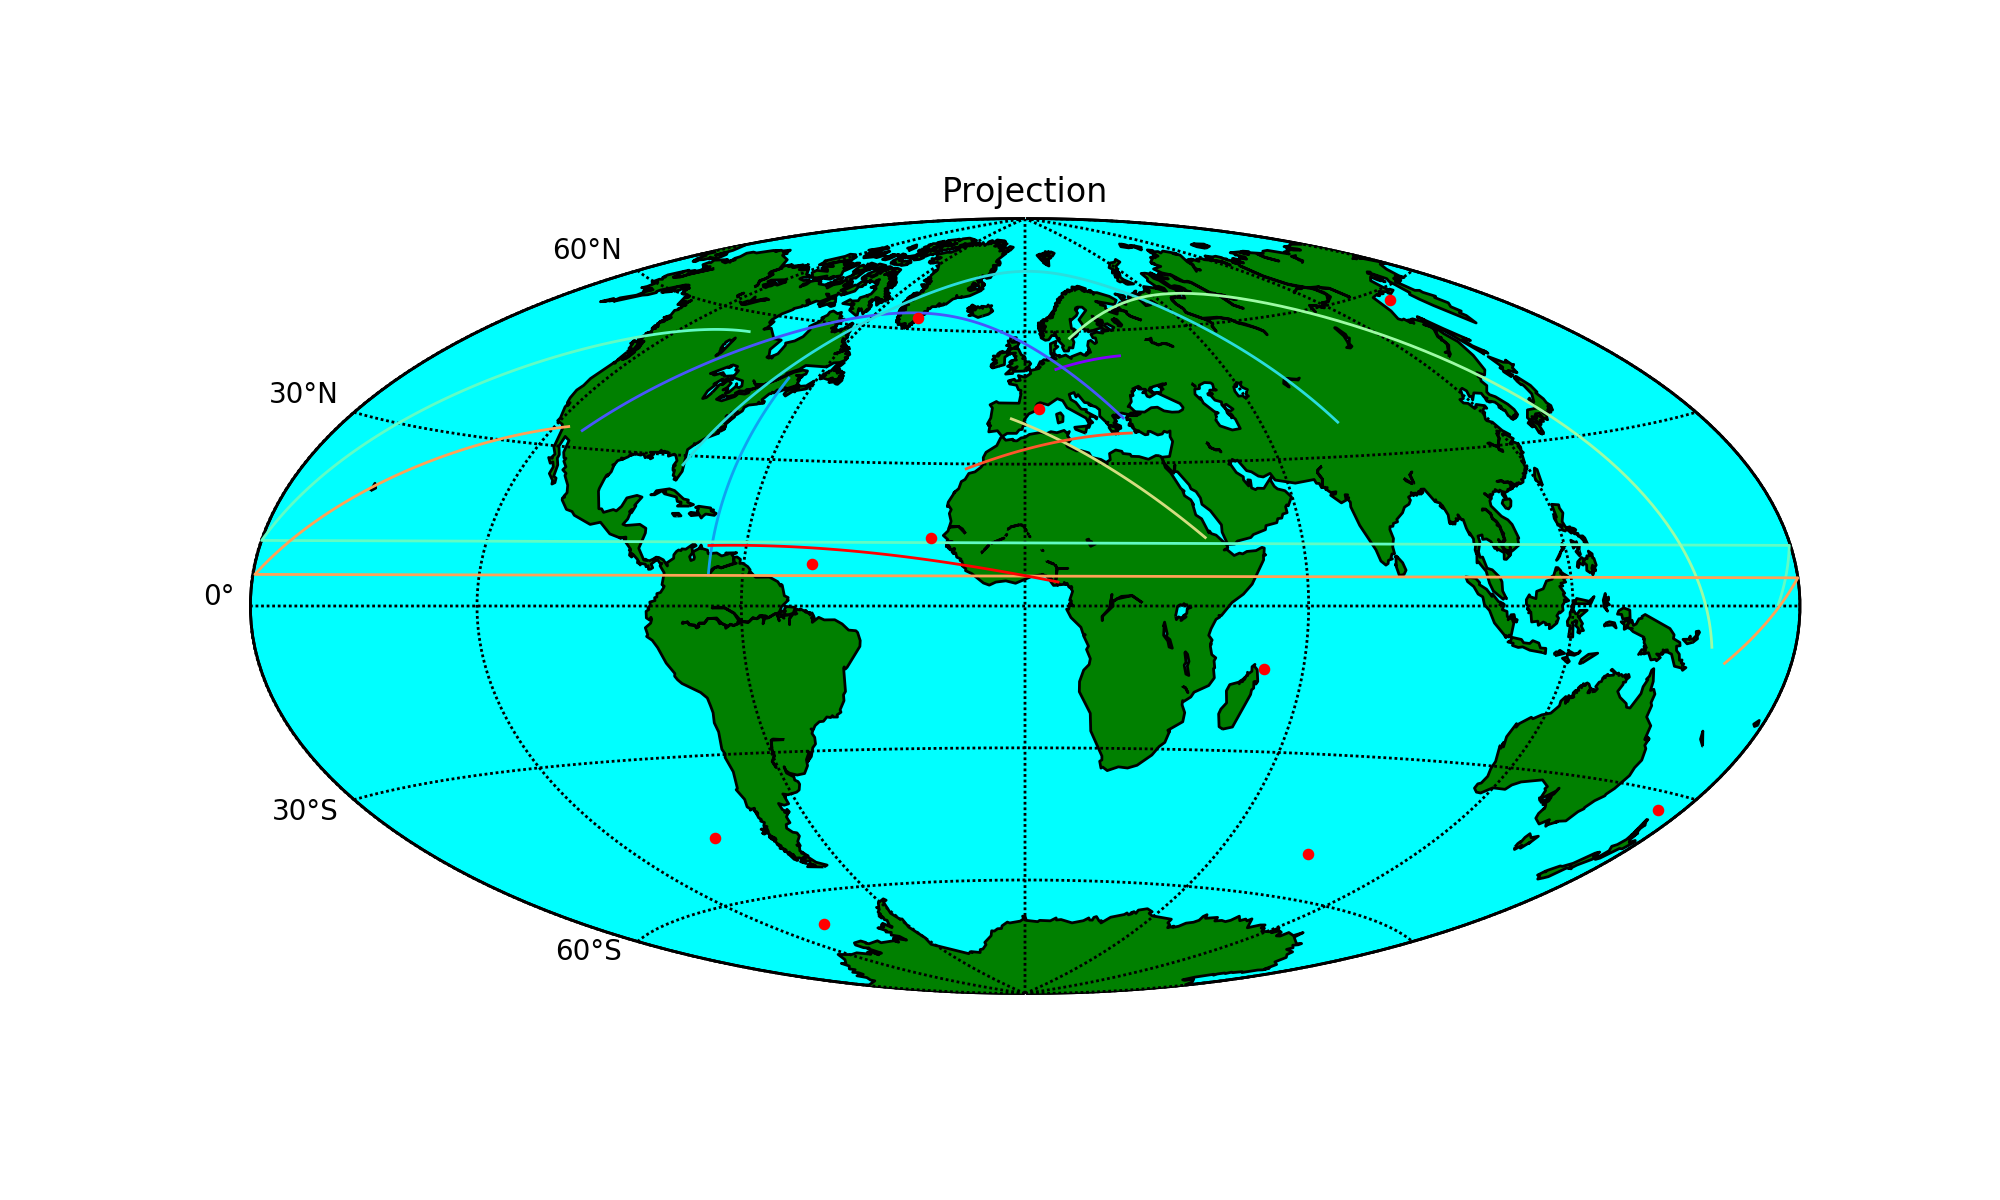
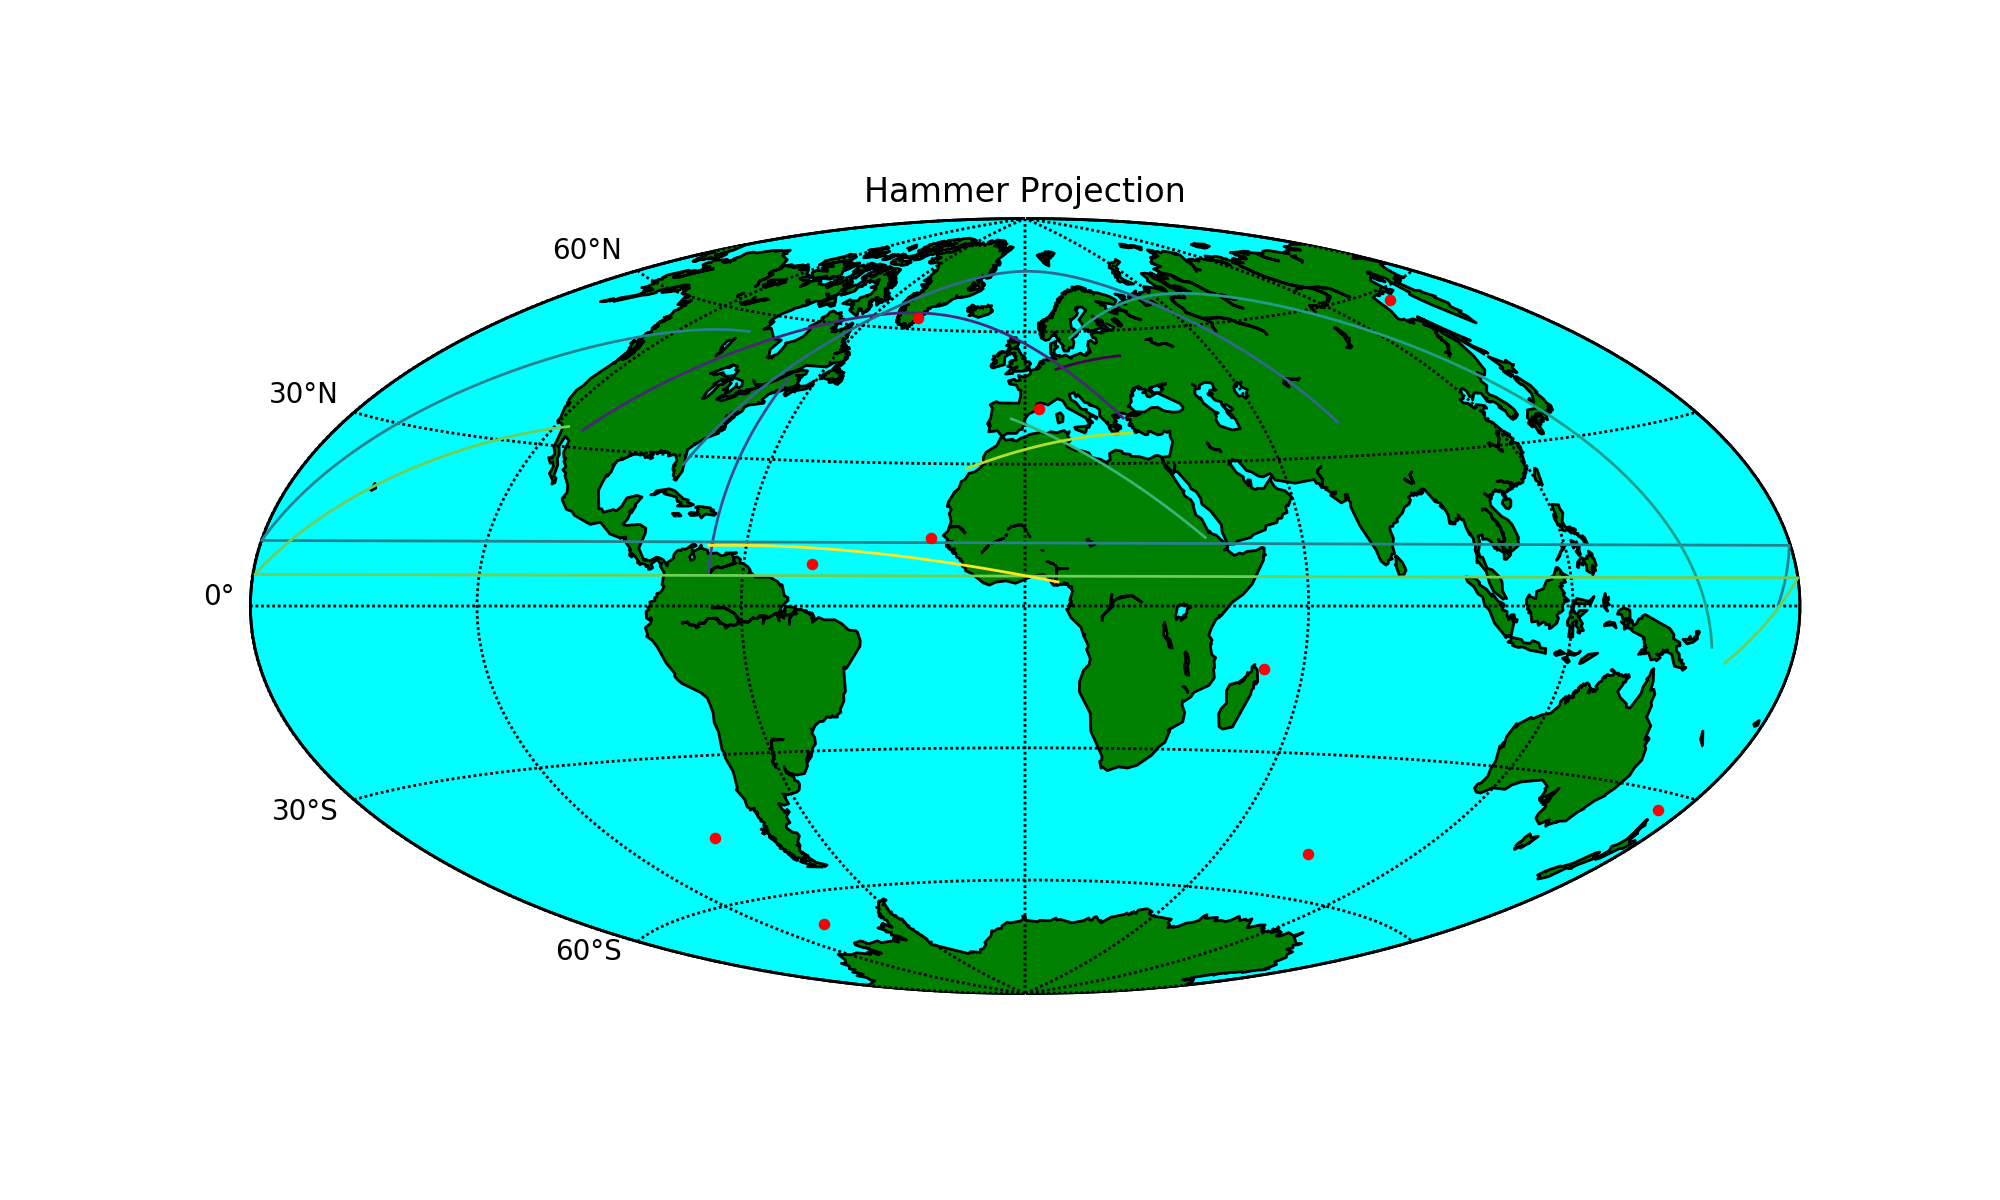
new projection and changed scheme to viridian

diff --git a/plot_data.py b/plot_data.py
@@ -226,15 +226,17 @@ if option_map == 'yes':
 	lons = list(data_df['long'])
 	
 	# resolution = 'c' means use crude resolution coastlines.
+	proj_choice = 'hammer'
+
 	plt.figure(figsize=(10,6))
-	m = Basemap(projection='hammer',lon_0=0,resolution='c') # lon_0 = 0 # default used was 'robin'
+	m = Basemap(projection=f'{proj_choice}',lon_0=0,resolution='c') # lon_0 = 0 # default used was 'robin'
 	m.drawcoastlines()
 	m.fillcontinents(color='green',lake_color='aqua') #coral
 	# draw parallels and meridians.
 	m.drawparallels(np.arange(-90.,120.,30.), labels=[1,0,0,0])
 	m.drawmeridians(np.arange(0.,420.,60.)) # , labels=[1,0,0,0])
 	m.drawmapboundary(fill_color='aqua')
-	plt.title("Projection")
+	plt.title(f"{proj_choice} Projection".title())
 	
 	x, y = m(lons,lats)
 	# plt.plot(x,y, 'o', color='blue')
@@ -270,7 +272,7 @@ if option_map == 'yes':
 	'''
 
 	
-	color_cm=iter(cm.rainbow(np.linspace(0,1, len(data_df))))
+	color_cm=iter(cm.viridis(np.linspace(0,1, len(data_df))))
 
 	for i in range(len(data_df)):
 
